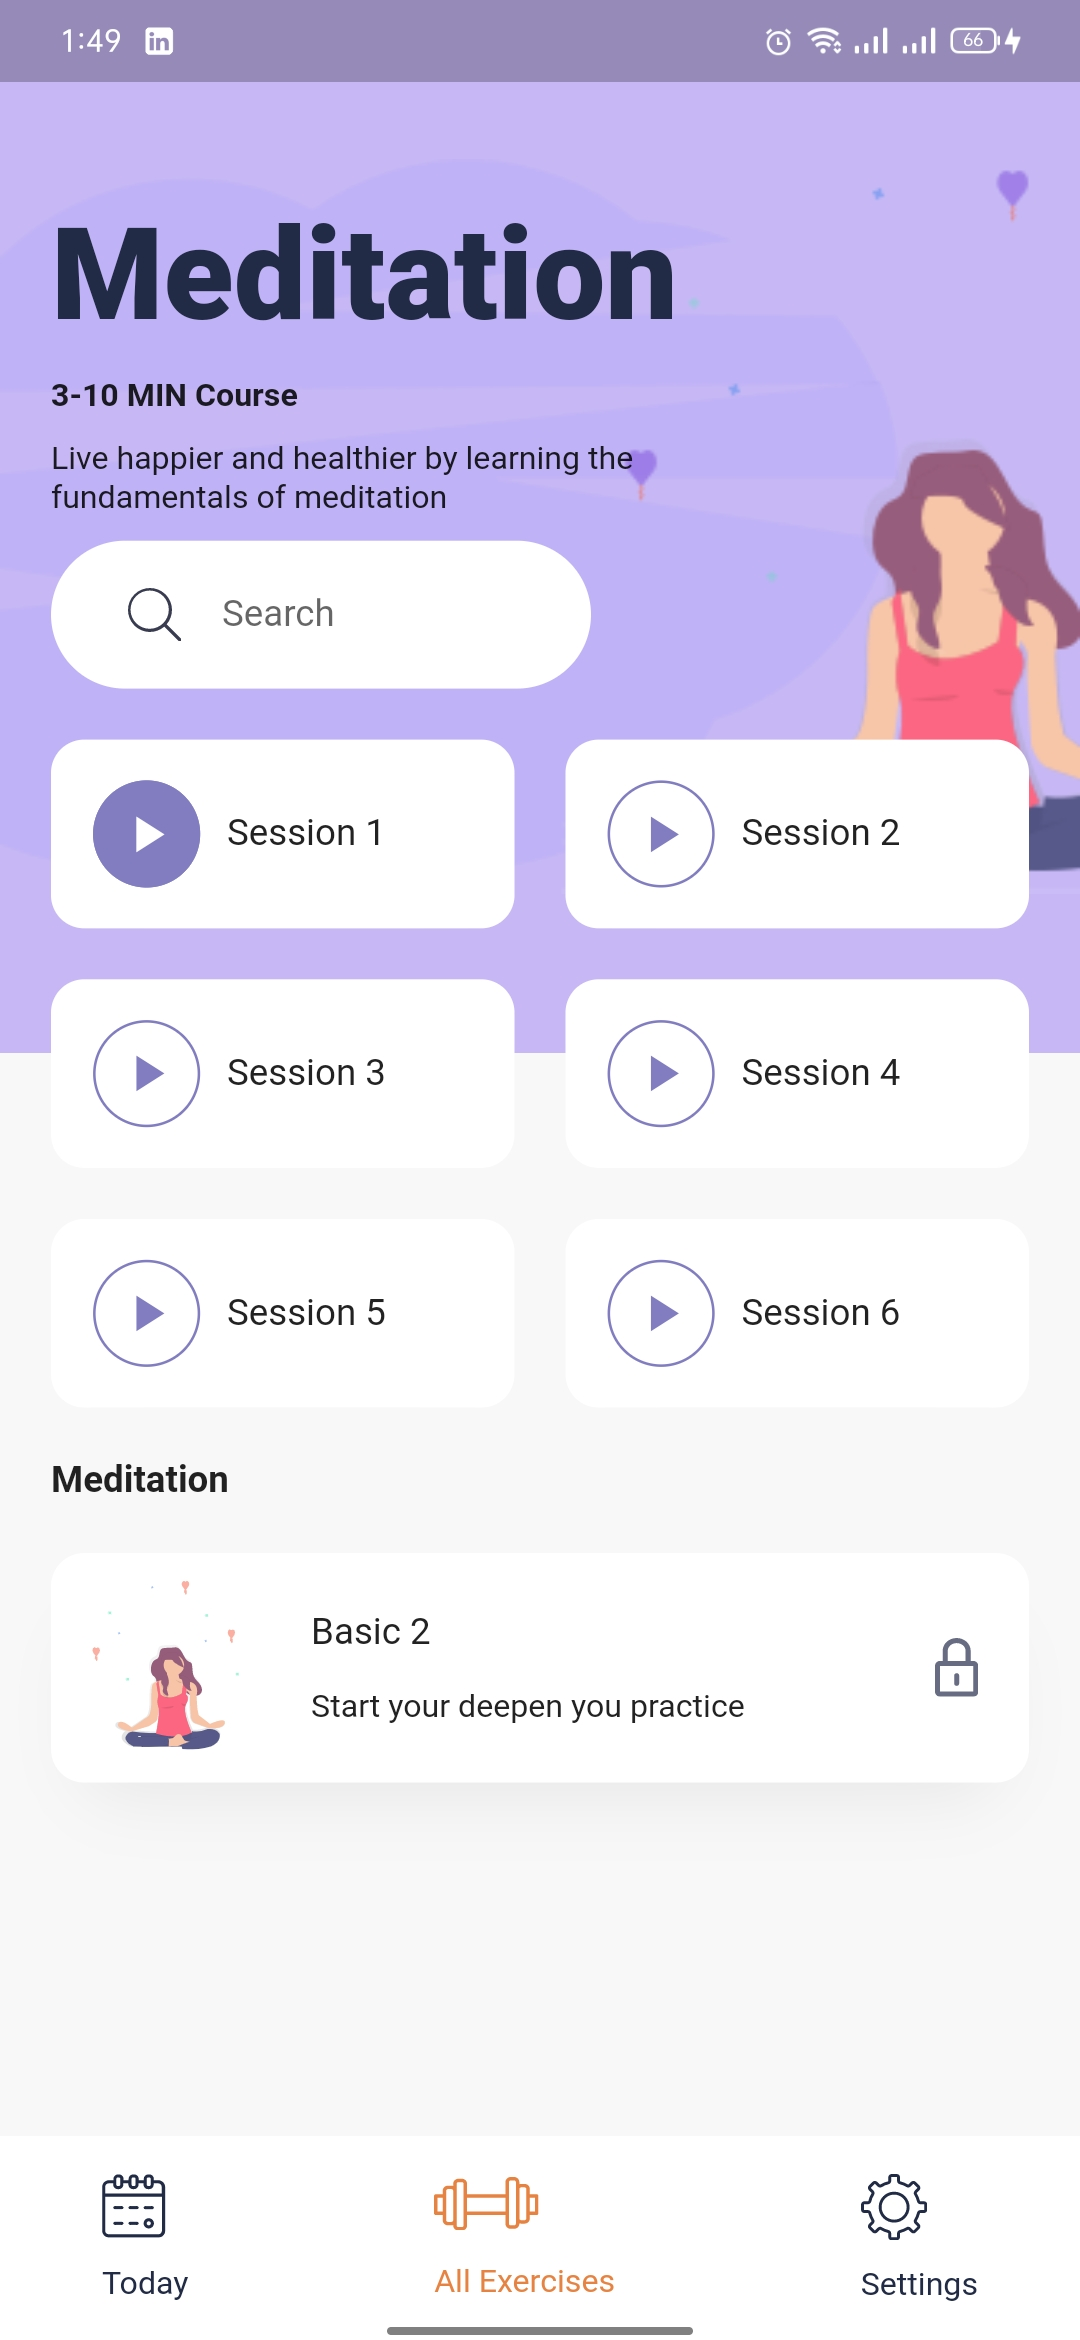
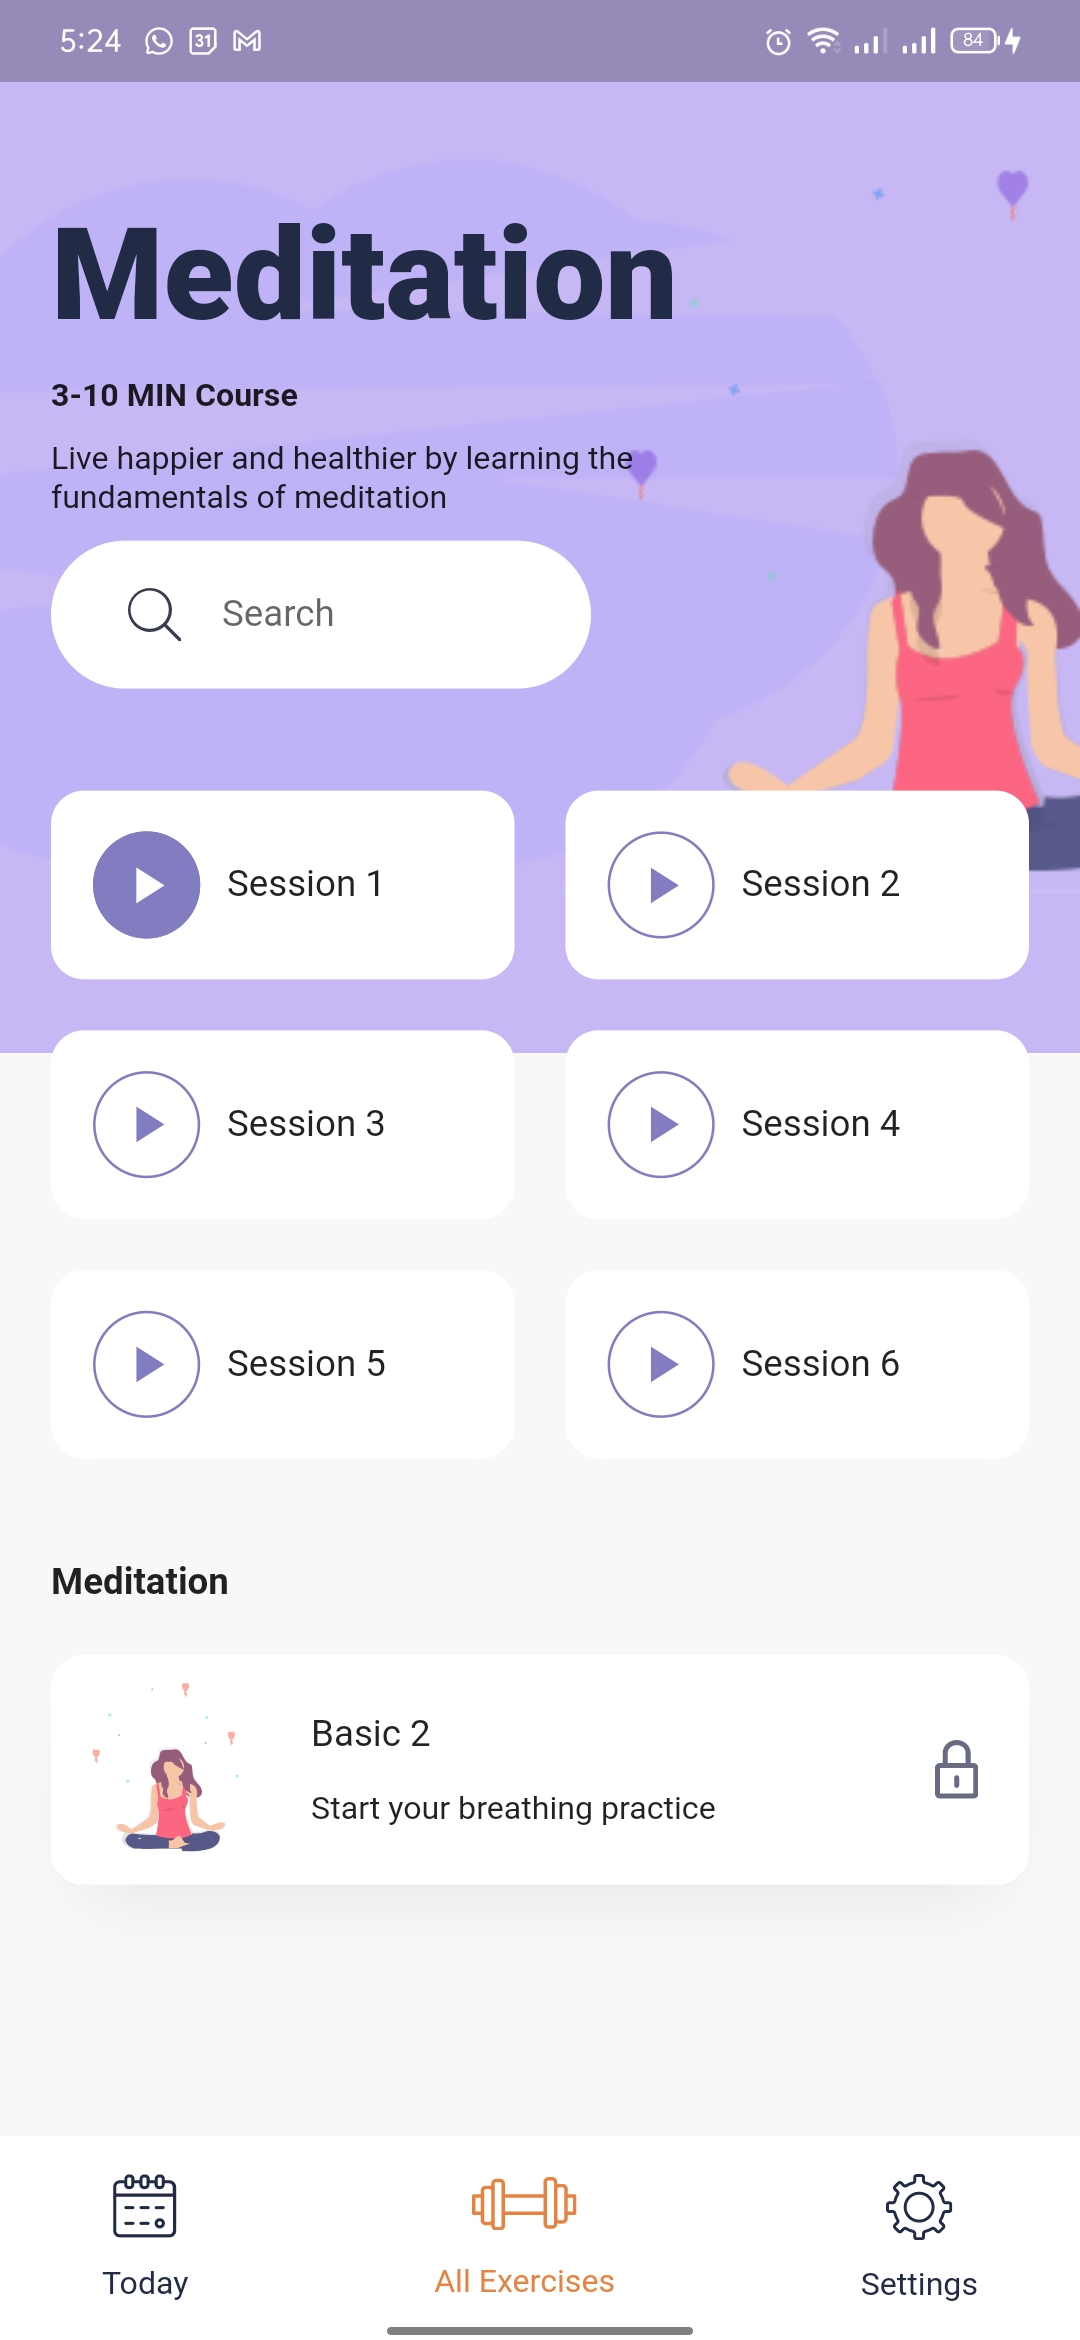
Ui improvements, readme updated

diff --git a/lib/widgets/bottom_nav_items.dart b/lib/widgets/bottom_nav_items.dart
@@ -54,19 +54,21 @@ class BottomNavItem extends StatelessWidget {
   Widget build(BuildContext context) {
     return GestureDetector(
         onTap: press,
-        child: Column(
-            mainAxisAlignment: MainAxisAlignment.spaceAround,
-            crossAxisAlignment: CrossAxisAlignment.start,
-            children: <Widget>[
-              SvgPicture.asset(
-                svgSrc,
-                color: isActive ? kActiveIconColor : kTextColor,
-              ),
-              Text(
-                title,
-                style:
-                    TextStyle(color: isActive ? kActiveIconColor : kTextColor),
-              )
-            ]));
+        child: Center(
+          child: Column(
+              mainAxisAlignment: MainAxisAlignment.spaceAround,
+              crossAxisAlignment: CrossAxisAlignment.center,
+              children: <Widget>[
+                SvgPicture.asset(
+                  svgSrc,
+                  color: isActive ? kActiveIconColor : kTextColor,
+                ),
+                Text(
+                  title,
+                  style: TextStyle(
+                      color: isActive ? kActiveIconColor : kTextColor),
+                )
+              ]),
+        ));
   }
 }

diff --git a/lib/screens/meditation.dart b/lib/screens/meditation.dart
@@ -63,7 +63,7 @@ class MeditationScreen extends StatelessWidget {
                       child: const SearchBar(),
                     ),
                     const SizedBox(
-                      height: 20,
+                      height: 40,
                     ),
                     Wrap(
                       spacing: 20,
@@ -96,7 +96,7 @@ class MeditationScreen extends StatelessWidget {
                         ),
                       ],
                     ),
-                    const SizedBox(height: 20),
+                    const SizedBox(height: 40),
                     Text(
                       "Meditation",
                       style: Theme.of(context)
@@ -135,7 +135,7 @@ class MeditationScreen extends StatelessWidget {
                                   "Basic 2",
                                   style: Theme.of(context).textTheme.subtitle1,
                                 ),
-                                const Text("Start your deepen you practice")
+                                const Text("Start your breathing practice")
                               ],
                             ),
                           ),

diff --git a/lib/screens/homeScreen.dart b/lib/screens/homeScreen.dart
@@ -40,7 +40,7 @@ class HomeScreen extends StatelessWidget {
                     ),
                     child: SvgPicture.asset("assets/icons/menu.svg"),
                   )),
-              SizedBox(
+              const SizedBox(
                 height: 20,
               ),
               Text("Good Morning \n Gerald",
@@ -48,9 +48,12 @@ class HomeScreen extends StatelessWidget {
                       .textTheme
                       .headline3!
                       .copyWith(fontWeight: FontWeight.w900)),
+              const SizedBox(
+                height: 30,
+              ),
               const SearchBar(),
-              SizedBox(
-                height: 20,
+              const SizedBox(
+                height: 30,
               ),
               Expanded(
                   child: GridView.count(

diff --git a/lib/widgets/category_card.dart b/lib/widgets/category_card.dart
@@ -37,10 +37,11 @@ class CategoryCard extends StatelessWidget {
               child: InkWell(
                 onTap: press,
                 child: Padding(
-                  padding: const EdgeInsets.all(20.0),
+                  padding: const EdgeInsets.all(15.0),
                   child: Column(
                     children: <Widget>[
                       SvgPicture.asset(svgSrc),
+                      const Spacer(),
                       Text(
                         title,
                         style: Theme.of(context)

diff --git a/README.md b/README.md
@@ -3,7 +3,7 @@
 Flutter gym application
 
 ## HomeScreen
-![Home screen](https://github.com/EKivutha/flutter_concepts_gym_app/blob/master/assets/images/Home.jpg?raw=true)
+![Home screen](https://github.com/EKivutha/flutter_concepts_gym_app/blob/master/assets/images/home.jpg?raw=true)
 
 # Meditation Screen
 ![Meditation screen ](https://github.com/EKivutha/flutter_concepts_gym_app/blob/master/assets/images/meditation.jpg?raw=true)
